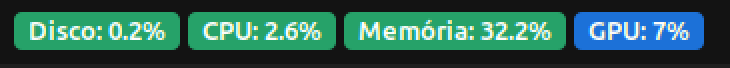
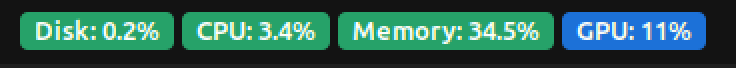
Use English for all interface text
Translate the badge labels, menu headers and menu rows from Portuguese
to English (Disk/Memory, "now (2s)", "mounted on", "busiest", ...), plus
the fallback disk name and the nvidia-smi error text.

Update the README to match, drop the "labels are in Portuguese"
limitation, and replace the screenshot with one showing the new labels.

Changed region(s): [[0.0, 0.1765, 0.9644, 0.7353]]

diff --git a/extension.js b/extension.js
@@ -15,7 +15,7 @@ import {SystemSampler} from './lib/sampler.js';
 
 const REFRESH_SECONDS = 2;
 const LEVELS = ['ok', 'warn', 'crit'];
-const SHORT = {io: 'Disco', cpu: 'CPU', memory: 'Memória'};
+const SHORT = {io: 'Disk', cpu: 'CPU', memory: 'Memory'};
 
 function windows(stats) {
     if (!stats)
@@ -93,7 +93,7 @@ class PsiIndicator extends PanelMenu.Button {
         this._gpuPill.add_style_class_name('psi-gpu');
         this.add_child(this._box);
 
-        this._addHeader('% do tempo parado esperando  (10s  ·  60s  ·  5min)');
+        this._addHeader('% of time stalled waiting  (10s  ·  60s  ·  5min)');
         this._rows = {};
         for (const resource of RESOURCES) {
             this._rows[resource] = new PopupMenu.PopupMenuItem('', {reactive: false});
@@ -101,12 +101,12 @@ class PsiIndicator extends PanelMenu.Button {
         }
 
         this.menu.addMenuItem(new PopupMenu.PopupSeparatorMenuItem());
-        this._addHeader('Discos  (ocupação e velocidade, por disco)');
+        this._addHeader('Disks  (busy % and speed, per disk)');
         this._disksRow = new PopupMenu.PopupMenuItem('', {reactive: false});
         this.menu.addMenuItem(this._disksRow);
 
         this.menu.addMenuItem(new PopupMenu.PopupSeparatorMenuItem());
-        this._addHeader('GPU  (uso atual, não é pressão)');
+        this._addHeader('GPU  (current usage, not pressure)');
         this._gpuRow = new PopupMenu.PopupMenuItem('', {reactive: false});
         this.menu.addMenuItem(this._gpuRow);
     }
@@ -157,9 +157,9 @@ class PsiIndicator extends PanelMenu.Button {
         const {psi, instant, cores, cpuUsage, mem, disks} = snapshot;
         const data = psi[resource];
         const titles = {
-            io: 'Disco (I/O)  ·  número = disco mais ocupado',
-            cpu: `CPU  ·  número = uso, ${cores} núcleos`,
-            memory: 'Memória  ·  número = RAM em uso',
+            io: 'Disk (I/O)  ·  number = busiest disk',
+            cpu: `CPU  ·  number = usage, ${cores} cores`,
+            memory: 'Memory  ·  number = RAM in use',
         };
         if (!data)
             return `${titles[resource]}: n/a`;
@@ -167,51 +167,51 @@ class PsiIndicator extends PanelMenu.Button {
         const now = instant[resource];
         const lines = [
             titles[resource],
-            '  cor = pressão (tempo parado esperando):',
+            '  color = pressure (time stalled waiting):',
             `  some  ${windows(data.some)}`,
             `  full   ${windows(data.full)}`,
-            `  agora (${REFRESH_SECONDS}s): ${now === null ? 'medindo…' : formatPercent(now, 3)}`,
+            `  now (${REFRESH_SECONDS}s): ${now === null ? 'measuring…' : formatPercent(now, 3)}`,
         ];
 
         if (resource === 'io') {
             const busiest = disks.filter(d => d.rates).sort((a, b) => b.rates.busyPercent - a.rates.busyPercent)[0];
             if (busiest)
-                lines.push(`  mais ocupado: ${busiest.name} (${formatPercent(busiest.rates.busyPercent, 1)})`);
+                lines.push(`  busiest: ${busiest.name} (${formatPercent(busiest.rates.busyPercent, 1)})`);
         }
 
         if (resource === 'cpu' && cpuUsage !== null)
-            lines.push(`  uso: ${formatPercent(cpuUsage, 1)} de ${cores} núcleos`);
+            lines.push(`  usage: ${formatPercent(cpuUsage, 1)} of ${cores} cores`);
 
         if (resource === 'memory' && mem) {
             const usedPercent = (100 * mem.usedMiB) / mem.totalMiB;
-            lines.push(`  RAM em uso: ${formatMiB(mem.usedMiB)} de ${formatMiB(mem.totalMiB)} (${formatPercent(usedPercent, 0)})`);
-            lines.push(`  swap: ${formatMiB(mem.swapUsedMiB)} de ${formatMiB(mem.swapTotalMiB)}`);
+            lines.push(`  RAM in use: ${formatMiB(mem.usedMiB)} of ${formatMiB(mem.totalMiB)} (${formatPercent(usedPercent, 0)})`);
+            lines.push(`  swap: ${formatMiB(mem.swapUsedMiB)} of ${formatMiB(mem.swapTotalMiB)}`);
         }
         return lines.join('\n');
     }
 
     _describeDisks(disks) {
         if (disks.length === 0)
-            return 'nenhum disco encontrado';
+            return 'no disks found';
 
         return disks.map(disk => {
-            const where = disk.mounts.length > 0 ? disk.mounts.join(', ') : 'não montado';
+            const where = disk.mounts.length > 0 ? disk.mounts.join(', ') : 'not mounted';
             const speed = disk.rates
-                ? `ocupado ${formatPercent(disk.rates.busyPercent, 1)}  ·  lê ${disk.rates.readMBs.toFixed(1)} MB/s  ·  escreve ${disk.rates.writeMBs.toFixed(1)} MB/s`
-                : 'medindo…';
-            return `${disk.name}  ·  ${disk.model}  ·  ${disk.sizeGiB} GiB\n  montado em: ${where}\n  ${speed}`;
+                ? `busy ${formatPercent(disk.rates.busyPercent, 1)}  ·  reads ${disk.rates.readMBs.toFixed(1)} MB/s  ·  writes ${disk.rates.writeMBs.toFixed(1)} MB/s`
+                : 'measuring…';
+            return `${disk.name}  ·  ${disk.model}  ·  ${disk.sizeGiB} GiB\n  mounted on: ${where}\n  ${speed}`;
         }).join('\n');
     }
 
     updateGpu(gpu) {
         if (!gpu) {
             this._gpuPill.set_text('GPU: n/a');
-            this._gpuRow.label.set_text('nvidia-smi indisponível');
+            this._gpuRow.label.set_text('nvidia-smi unavailable');
             return;
         }
         this._gpuPill.set_text(`GPU: ${Math.round(gpu.util)}%`);
         this._gpuRow.label.set_text(
-            `Uso ${Math.round(gpu.util)}%  ·  VRAM ${formatMiB(gpu.memUsedMiB)} / ${formatMiB(gpu.memTotalMiB)}  ·  ${Math.round(gpu.tempC)}°C`);
+            `Usage ${Math.round(gpu.util)}%  ·  VRAM ${formatMiB(gpu.memUsedMiB)} / ${formatMiB(gpu.memTotalMiB)}  ·  ${Math.round(gpu.tempC)}°C`);
     }
 
     _setLevel(pill, level) {

diff --git a/lib/sampler.js b/lib/sampler.js
@@ -71,7 +71,7 @@ export class SystemSampler {
             const model = (readText(`/sys/block/${name}/device/model`) ?? '').trim();
             const sectors = Number((readText(`/sys/block/${name}/size`) ?? '0').trim());
             this._diskInfo.set(name, {
-                model: model || 'disco',
+                model: model || 'disk',
                 sizeGiB: Math.round((sectors * 512) / 1073741824),
             });
         }

diff --git a/README.md b/README.md
@@ -55,7 +55,7 @@ This extension shows both: usage as the number, PSI as the color.
 - Badge color from kernel pressure: green, yellow or red.
 - A menu, opened by clicking the badges, with what they cannot fit:
   - PSI `some` / `full` over 10 s, 60 s and 5 min windows;
-  - an "agora (2s)" value with 3 decimals, computed from the kernel's
+  - a "now (2s)" value with 3 decimals, computed from the kernel's
     cumulative counter (finer than the 2 decimals in `avg10`);
   - **per-disk** busy %, read/write MB/s and mount points;
   - CPU core count and real usage;
@@ -72,9 +72,9 @@ the last 10 s in which at least one task was stalled.
 
 | Badge   | Number                       | Color comes from                |
 |---------|------------------------------|---------------------------------|
-| Disco   | busy % of the busiest disk   | `/proc/pressure/io` (all disks) |
+| Disk    | busy % of the busiest disk   | `/proc/pressure/io` (all disks) |
 | CPU     | usage % across all cores     | `/proc/pressure/cpu`            |
-| Memória | RAM in use %                 | `/proc/pressure/memory`         |
+| Memory  | RAM in use %                 | `/proc/pressure/memory`         |
 | GPU     | GPU usage % (`nvidia-smi`)   | fixed blue (usage only)         |
 
 | Color  | Time stalled (`avg10`) | Meaning                          |
@@ -86,7 +86,7 @@ the last 10 s in which at least one task was stalled.
 Examples:
 
 - `CPU: 90%` in **green**: busy but healthy, nobody is waiting for a core.
-- `Disco: 8%` in **red**: little disk traffic, yet tasks are stalling on I/O.
+- `Disk: 8%` in **red**: little disk traffic, yet tasks are stalling on I/O.
 
 Notes:
 
@@ -317,8 +317,7 @@ Each loop ends on its own after 20 s.
 - Declares support for GNOME Shell **46** only. Other versions are untested.
 - Tested on **X11 only**. Wayland is expected to work but has not been tested.
 - GPU support is NVIDIA-only (through `nvidia-smi`).
-- Badge labels are in Portuguese (`Disco`, `Memória`). There is no
-  translation support yet.
+- The interface text is English only. There is no translation support.
 - PSI cannot attribute pressure to a specific disk or core.
 - Needs a kernel with PSI enabled (`CONFIG_PSI`, and not turned off with
   `psi=0`).
